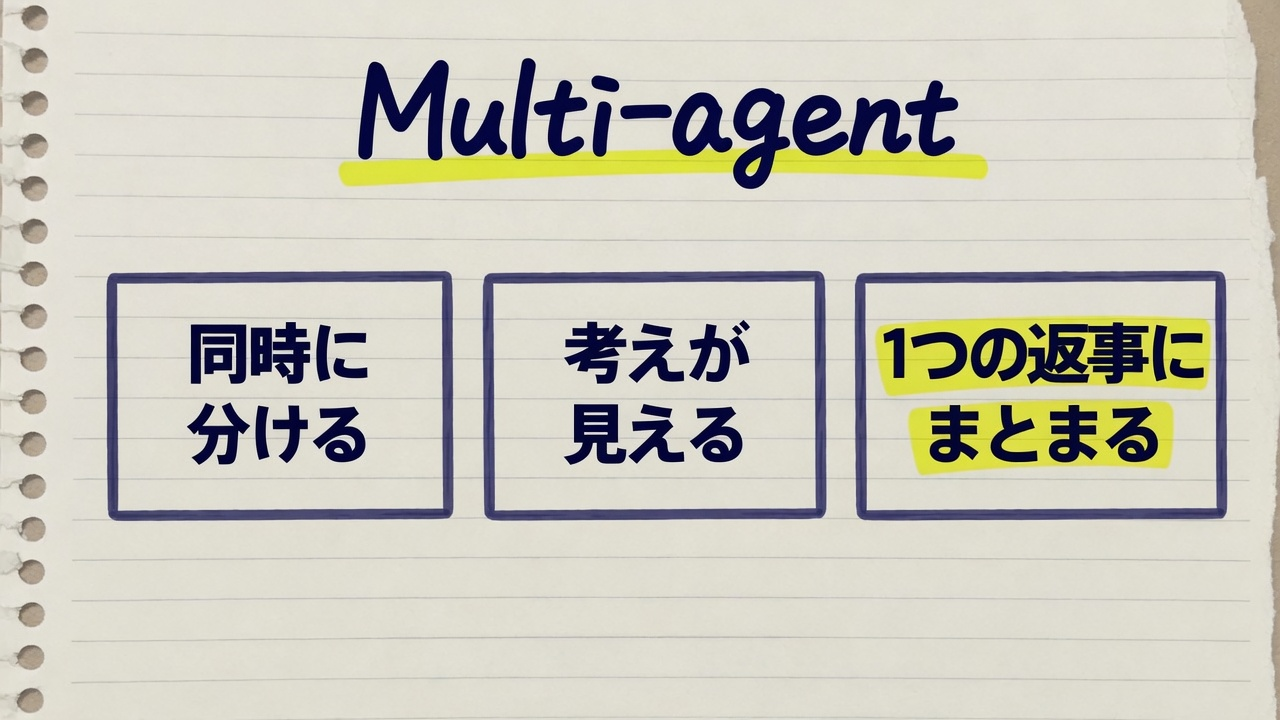
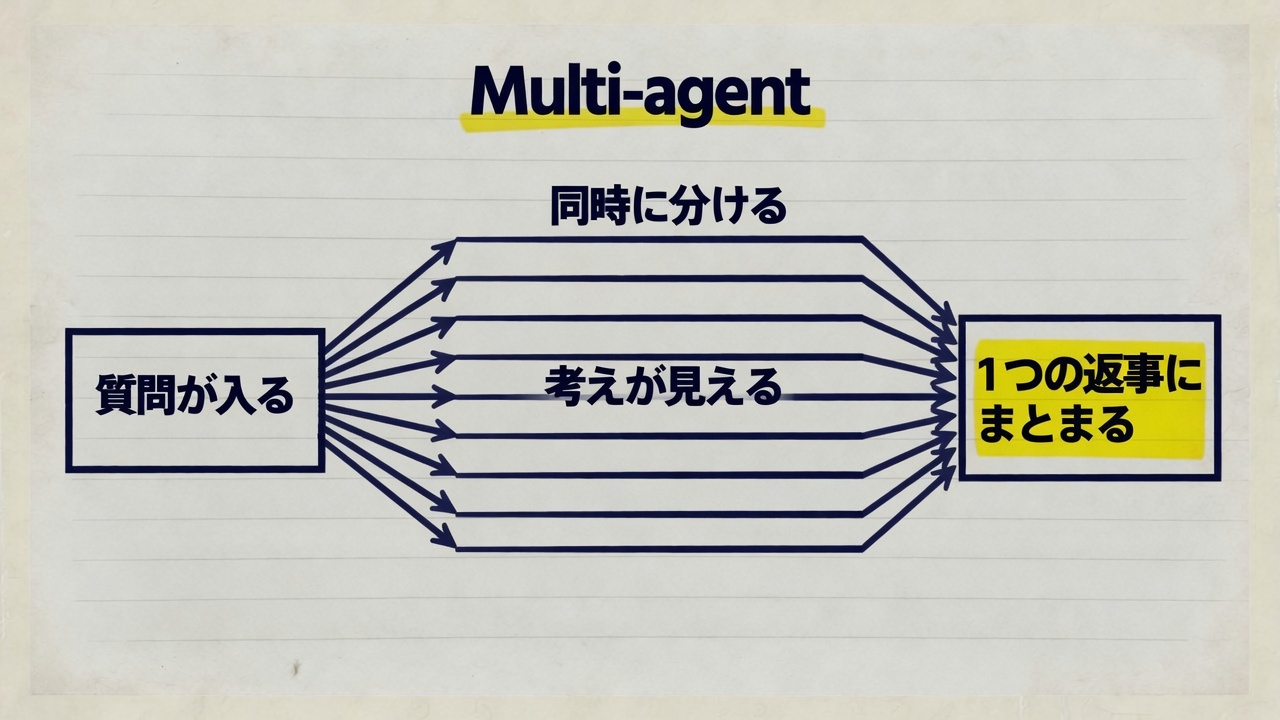
Redraw Multi-agent as a split-and-merge diagram

diff --git a/src/content/tips/expert-and-heavy.md b/src/content/tips/expert-and-heavy.md
@@ -31,8 +31,8 @@ image_caption: チャットで選ぶ Heavy は機能です。払う Heavy はプ
 同じ日の [x.ai/grok](https://x.ai/grok) は、複数のエージェントが同時に分け、考えが見えて、1 つの返事にまとまる、と書いています。見出しは Multi-agent です。
 
 <figure class="article-hero">
-  <img src="/tips/fig-multi-agent.jpg" alt="ノートに Multi-agent とあり、同時に分ける、考えが見える、1つの返事にまとまる、と三つ並んでいる" width="1280" height="720" />
-  <figcaption>見出しは Multi-agent です。同時に分けて、考えが見えて、1 つの返事にまとまります。</figcaption>
+  <img src="/tips/fig-multi-agent.jpg" alt="ノートの図。質問が入ると矢印が同時に分かれ、考えが見えて、1つの返事にまとまる。見出しは Multi-agent" width="1280" height="720" />
+  <figcaption>質問が入ると同時に分かれます。考えが見えて、1 つの返事にまとまります。見出しは Multi-agent です。</figcaption>
 </figure>
 
 SuperGrok に含まれる、とも書いています。チャットで選ぶ Heavy と、この Multi-agent は、別の見出しです。
